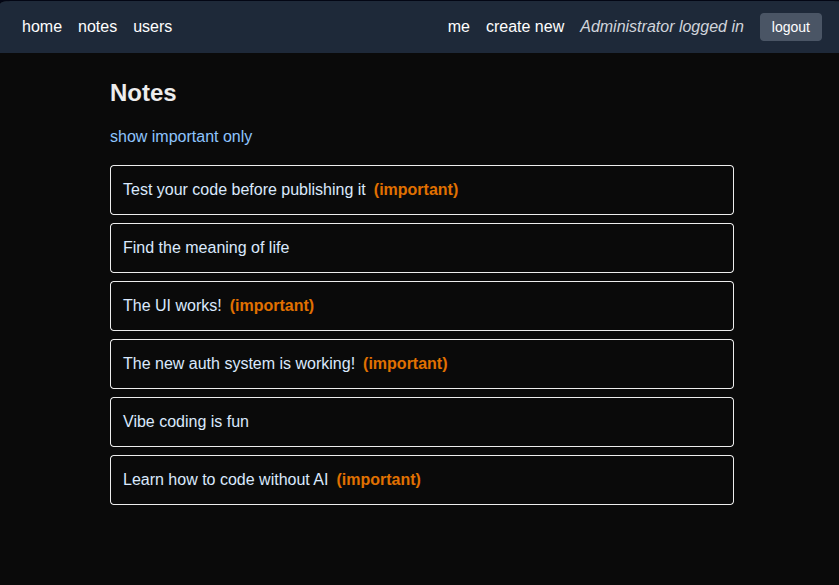
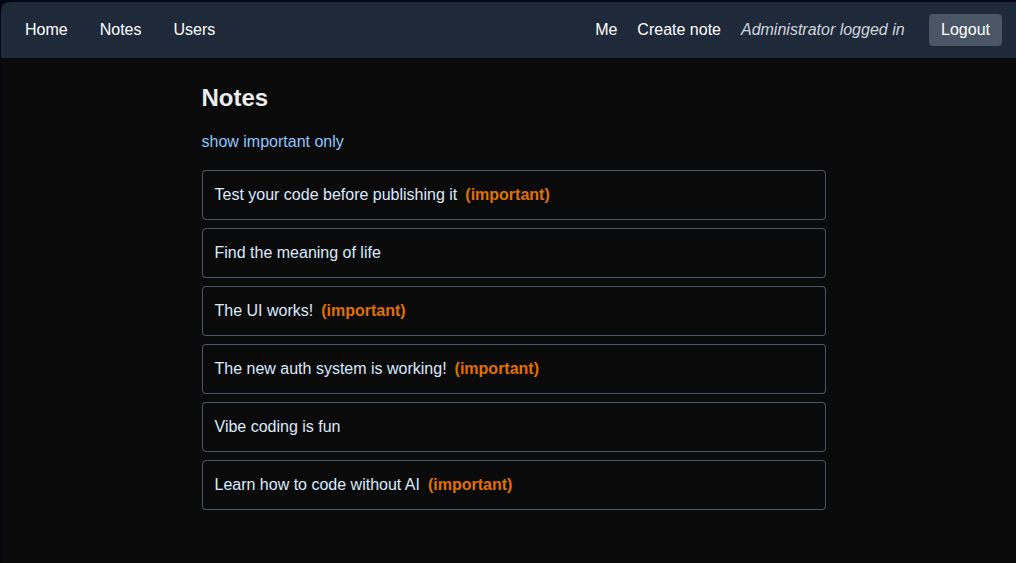
update(docs): add screenshots with the most recent UI changes - include screenshots for the mobile UI - rename the Screenshots sub-sections for consistency

Changed region(s): [[0.0, 0.0, 1.0, 0.8757], [0.0, 0.0, 0.2169, 0.0604]]

diff --git a/README.md b/README.md
@@ -9,7 +9,7 @@
 
 ### Screenshots
 
-#### Desktop version
+#### Desktop web UI
 
 <div style="display: flex; gap: 1rem;">
   <img src="./img/blogs-list/blogs-list-view.png" alt="Blogs List page view" width="400" />
@@ -17,7 +17,7 @@
 </div>
 
 
-#### Mobile version
+#### Mobile web UI
 
 <div style="display: flex; gap: 1rem;">
   <img src="./img/blogs-list/mobile-blogs-list-view.png" alt="Blogs List page view on mobile devices" width="250" />
@@ -122,7 +122,14 @@ Add a new note
 
 ### Screenshots
 
+#### Desktop web UI
+
 <img src="./img/notes-app/notes-page.png" alt="Notes page Web UI" width=450>
+
+#### Mobile web UI
+
+<img src="./img/notes-app/mobile-notes-page.png" alt="Notes page mobile Web UI" width=250>
+
 
 ### Setup
 
